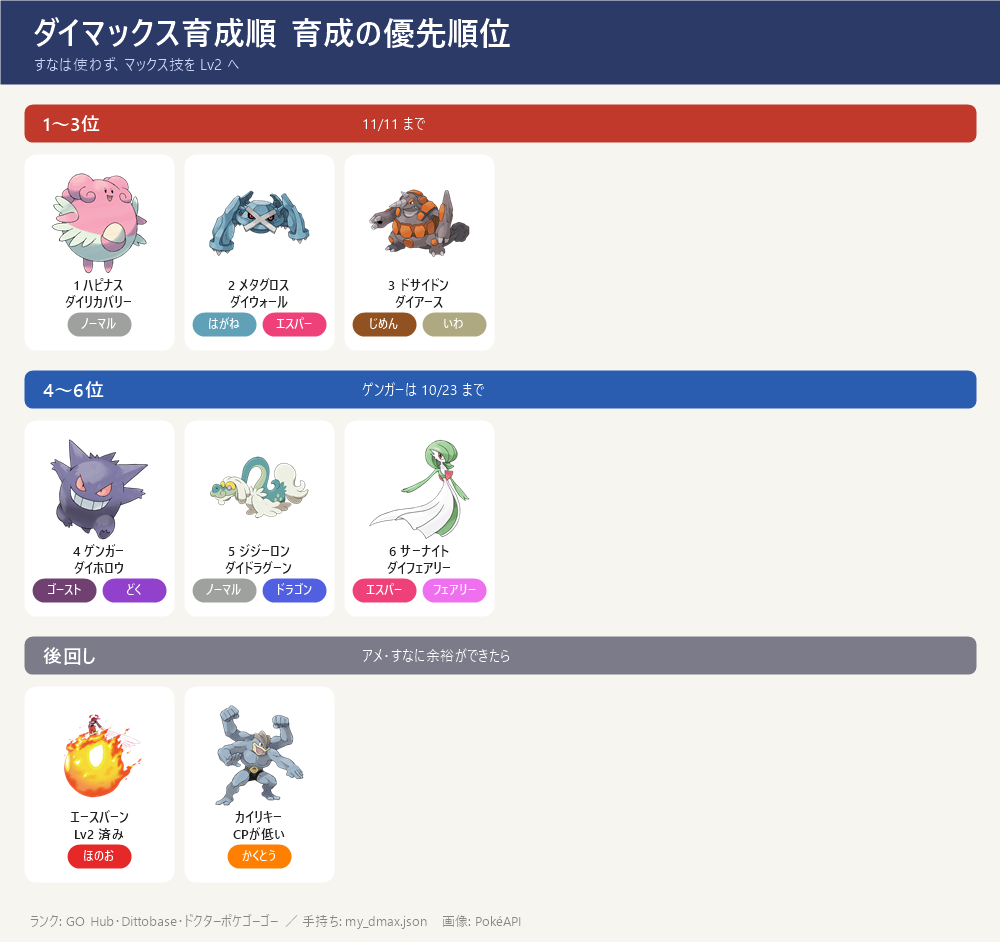
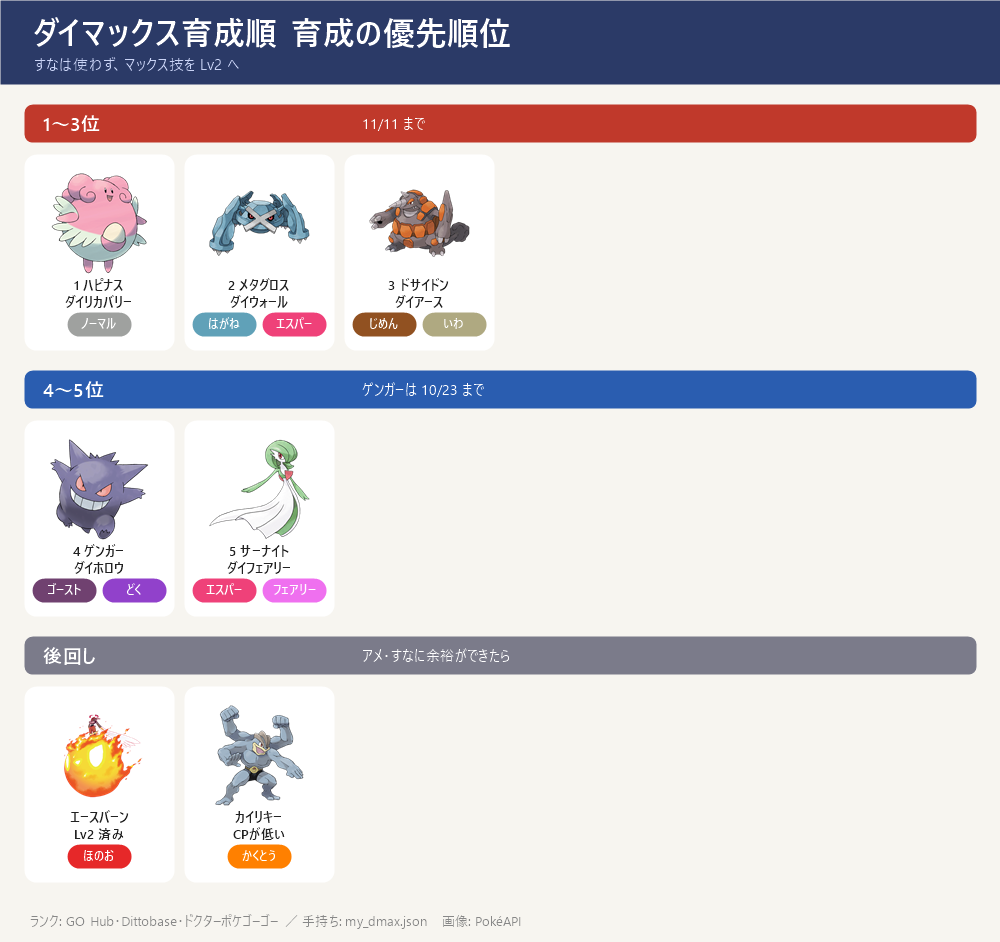
話題ページ dmax-training

Changed region(s): [[0.186, 0.4618, 0.496, 0.6465]]

diff --git a/topics/dmax-training/index.html b/topics/dmax-training/index.html
@@ -6,5 +6,6 @@ header{background:#2B3A67;color:#fff;padding:16px}header h1{margin:0;font-size:2
 main{max-width:1000px;margin:0 auto;padding:0 16px 40px}h2{font-size:19px;border-left:6px solid #2B3A67;padding-left:10px;margin:28px 0 8px}
 ul{padding-left:1.2em;margin:6px 0}li{margin:4px 0}li.s{list-style:none;margin-left:1em;color:var(--fg);font-size:15px}li.s::before{content:'– ';color:var(--muted)}img{width:100%;height:auto;display:block;border-radius:8px;margin:10px 0;background:#fff}
 .sub{color:var(--muted);margin:0}.src{color:var(--muted);font-size:13px;margin-top:30px}nav a{display:inline-block;margin:4px 8px 0 0}
+details{margin:10px 0}summary{cursor:pointer;color:var(--muted)}
 .nest{background:var(--card);border-left:6px solid #2E7D6B;padding:8px 12px;border-radius:6px;margin:12px 0}
-</style></head><body><header><h1>ダイマックス 育成の優先順位（10/17〜）</h1><nav><a href='../../'>← 一覧</a></nav></header><main><ul><li><span style='font-weight:bold;color:#C0392B'>結論：すなより「マックス技のレベル」</span>。マックス技 Lv1→Lv3 で威力 <b>+40%</b>（250→350）、PL30→40 は攻撃 <b>+8%</b> だけ → すな（50万未満）はほぼ使わず、<b>MP とアメ</b>で育てる</li><li><b>いちばん先（11/11 まで）</b>：①ハピナス ダイリカバリー Lv2 ②メタグロス ダイウォールを覚えて Lv2 ③ドサイドンを どろかけ にして ダイアース Lv2</li><li><b>止まりやすいのは MP ではなくアメ</b>：1〜6位を全部 Lv2 にしても MP は約4,000（ふつうの日5日分）。アメが足りない技は飛ばして次へ。Lv3 はアメXL 40〜55個 → <b>当面は全部 Lv2 まで</b></li><li><span style='color:#888888'>11/16 以降のマックスバトルは未発表（10/17 時点）。発表されたらこのページを直す</span></li></ul><h2 style='border-color:#C0392B'>育成の優先順位</h2><a href='pokego_extra0.png'><img src='pokego_extra0.png' alt='育成の優先順位' loading=lazy></a><ul><li><b>1位 ハピナス（CP2677）</b>：ダイリカバリー Lv1→2（600MP・アメ100前後）。<b>6ボスすべて</b>で回復役。回復量 31 → <b>47</b>（4体全員に）。次にダイウォール Lv2</li><li><b>2位 メタグロス（CP3369）</b>：ダイウォールを覚える（400MP・アメ70）→ Lv2（600MP・アメ120）。<b>6ボスすべて</b>で受け役（盾 20 → 40）。どの攻略サイトでも受け役の上位</li><li><b>3位 ドサイドン（CP3005）</b>：通常わざマシンで <b>どろかけ</b> に（覚える通常技は2つだけなので1回で確実）→ ダイアース Lv2（600MP）。ディアルガ・レジスチル・★6 キョダイジュラルドンで<b>弱点</b></li><li><b>4位 ゲンガー（CP2160）</b>：ダイホロウ Lv2（600MP・アメ110）。10/24 ユクシー・エムリット・アグノム、11/13 ラティアス・ラティオスで弱点 → <span style='font-weight:bold;color:#C0392B'>10/23 までに</span></li><li><b>5位 ジジーロン</b>：まず通常技が <b>ドラゴンブレス</b> か確認 → ダイドラグーン Lv2（600MP）。レジドラゴ・ラティアス・ラティオス・パルキアの<b>4ボス</b>で弱点</li><li><b>6位 サーナイト（CP2023）</b>：通常わざマシンで <b>あまえる</b> に → ダイフェアリー Lv2（600MP）。パルキア・レジドラゴ・10/26 ヤミラミ（弱点はフェアリーだけ）</li><li><span style='color:#888888'><b>後回し</b>：エースバーン（キョダイ Lv2 済み。Lv3 はアメXL 45個）／カイリキー（CP1698 で弱い。じめん・かくとう役はドサイドンが先）／インテレオン・フシギバナ（ダイマックス版はどのサイトでも下位）／シャワーズ（パルキアの受けの控え）／ハピナス2体目（余裕ができたら2体目の回復役に）</span></li></ul><h2 style='border-color:#5B4B8A'>これからのマックスバトルと使うポケモン</h2><a href='pokego_extra1.png'><img src='pokego_extra1.png' alt='これからのマックスバトルと使うポケモン' loading=lazy></a><ul><li><b>10/19(月) マックスマンデー：ダイマックス ニューラ</b>（あく・こおり）→ かくとうが<b>4倍</b>：カイリキー。ほのお（エースバーン）・いわ（ドサイドンのうちおとす）・むし（メタグロスのれんぞくぎり）も弱点</li><li><b>10/24(土) 14:00〜17:00 マックスバトルデイ：ユクシー・エムリット・アグノム</b>（エスパー・★5）→ ゴースト（<b>ゲンガー</b>）・むし（<b>メタグロス</b>）。★5 なので4人で</li><li><b>10/26(月) マックスマンデー：ヤミラミ</b>（あく・ゴースト）→ 弱点は<b>フェアリーだけ</b>：サーナイト（あまえる）</li><li><b>11/9〜13 ワイルドウィーク</b>（★5 レジスチル・レジドラゴ・ラティアス・ラティオス）→ <b>11/14 ディアルガ・11/15 パルキア</b>。くわしくはボス別のページ</li><li><b>11/14・15 ★6 キョダイジュラルドン</b>（はがね・ドラゴン）→ じめん・かくとうが弱点：<b>ドサイドン（どろかけ）</b></li><li><span style='color:#888888'>11/16 以降は未発表。去年の年末は 12/14 にキョダイカビゴンのマックスバトルデイ</span></li></ul><h2 style='border-color:#2A5DB0'>MP の計画</h2><ul><li>1日に集められるのは <b>800</b>（5:00 に戻る）、持てる上限は <b>1,500</b>。パック・リサーチ・コードの MP は1日の上限に数えない</li><li><b>育成に要る MP</b>：1〜3位で約2,200、4〜6位で約1,800 → 合計約4,000。ふつうに集めれば 11/10 までに十分足りる</li><li><b>パック（800MP）は 11/14・15 用にとっておく</b>のがいちばん効く：1個 ＝ もう1戦。持てるのは12個まで。<span style='font-weight:bold;color:#C0392B'>開けられるのは 1,500 未満のときだけ</span>（1戦して減ったら開ける。開けると 1,500 を超えてもよい）</li><li>例：週3個 × 4週（10/18〜11/13）＝ 最大12個。半分の6個をとっておけば、11/14・15 が <b>3戦ずつ増える</b></li><li><b>11/12・13 は使わずに 1,500 までためる</b>（いままでの計画どおり）</li><li><span style='color:#888888'>GOパス デラックス「Into the Wild」（11/9〜13）をランク2にすると、マックス技の MP が 3/4 に（買う場合だけ）</span></li></ul><h2 style='border-color:#3C8D5A'>必要な量とすなの使い方</h2><ul><li><b>覚える（Lv1）</b>：400MP ＋ アメ50〜70（伝説80）／<b>Lv1→2</b>：600MP ＋ アメ100〜120（伝説130）／<b>Lv2→3</b>：800MP ＋ <b>アメXL</b> 40〜50（伝説55）</li><li>アメの量はポケモンごとに違う（ゴース・ワンリキーは 60/110/45、ダンバルは 70/120/50）。<b>画面で確認してから</b></li><li><b>効果</b>：ダイ攻撃 250/300/350、キョダイ技 350/400/450、ダイウォール 盾 20/40/60、ダイリカバリー 最大HPの 8/12/16%。Lv4 は買えない（ムゲンダイナの特別な効果中だけ）</li><li><b>すな</b>：PL30→40 で15万、PL40→50 で25万（アメXL 296個）→ 50万未満なら上げられるのは1体だけ</li><li><b>すなを使うなら ドサイドン</b>（今は PL31 前後と推定 → PL40 で約13万すな、攻撃 約+11%）。<span style='font-weight:bold;color:#C0392B'>カイリキー（CP1698）にすなを入れるのはやめる</span>（じめん・かくとう役はドサイドンで足りる）。ハピナス（CP2677）はもう PL40 近いので不要</li><li><b>10/22(木) 18:00〜19:00 ネマシュのスポットライトアワー（すな2倍）</b>でためる</li></ul><p class=src>出典: マックス技の量: ポケらく post94863・Sportskeeda ／ MP: Dittobase ／ 予定: Leek Duck・Dittobase・ポケモンGO公式 into-the-wild-2026 ／ ランク: GO Hub（攻撃・受け・回復）・Dittobase・ドクターポケゴーゴー ／ すな: GO Hub ／ ボス別の計算: calc.json・ww_calc.json ／ 手持ち: my_dmax.json<br>画像: PokéAPI ／ 更新 2026-10-17</p></main></body></html>
+</style></head><body><header><h1>ダイマックス 育成の優先順位（10/17〜）</h1><nav><a href='../../'>← 一覧</a></nav></header><main><ul><li><span style='font-weight:bold;color:#C0392B'>結論：すなより「マックス技のレベル」</span>。マックス技 Lv1→Lv3 で威力 <b>+40%</b>（250→350）、PL30→40 は攻撃 <b>+8%</b> だけ → すな（50万未満）はほぼ使わず、<b>MP とアメ</b>で育てる</li><li><b>いちばん先（11/11 まで）</b>：①ハピナス ダイリカバリー Lv2 ②メタグロス ダイウォールを覚えて Lv2 ③ドサイドン ダイアース Lv2（どろかけは替え済み）</li><li><b>止まりやすいのは MP ではなくアメ</b>：1〜5位を全部 Lv2 にしても MP は約3,400（ふつうの日5日分）。アメが足りない技は飛ばして次へ。Lv3 はアメXL 40〜55個 → <b>当面は全部 Lv2 まで</b></li><li><span style='color:#888888'>11/16 以降のマックスバトルは未発表（10/17 時点）。発表されたらこのページを直す</span></li></ul><h2 style='border-color:#C0392B'>育成の優先順位</h2><a href='pokego_extra0.png'><img src='pokego_extra0.png' alt='育成の優先順位' loading=lazy></a><ul><li><b>1位 ハピナス（CP2677）</b>：ダイリカバリー Lv1→2（600MP・アメ100前後）。<b>6ボスすべて</b>で回復役。回復量 31 → <b>47</b>（4体全員に）。次にダイウォール Lv2</li><li><b>2位 メタグロス（CP3369）</b>：ダイウォールを覚える（400MP・アメ70）→ Lv2（600MP・アメ120）。<b>6ボスすべて</b>で受け役（盾 20 → 40）。どの攻略サイトでも受け役の上位</li><li><b>3位 ドサイドン（CP3005）</b>：<b>どろかけ</b> 替え済み（10/18）→ ダイアース Lv2（600MP）。ディアルガ・レジスチル・★6 キョダイジュラルドンで<b>弱点</b></li><li><b>4位 ゲンガー（CP2160）</b>：ダイホロウ Lv2（600MP・アメ110）。10/24 ユクシー・エムリット・アグノム、11/13 ラティアス・ラティオスで弱点 → <span style='font-weight:bold;color:#C0392B'>10/23 までに</span></li><li><b>5位 サーナイト（CP2023）</b>：<b>あまえる</b> 替え済み（10/18）→ ダイフェアリー Lv2（600MP）。パルキア・レジドラゴ・10/26 ヤミラミ（弱点はフェアリーだけ）</li><li><span style='color:#888888'><b>後回し</b>：エースバーン（キョダイ Lv2 済み。Lv3 はアメXL 45個）／カイリキー（CP1698 で弱い。じめん・かくとう役はドサイドンが先）／インテレオン・フシギバナ（ダイマックス版はどのサイトでも下位）／シャワーズ（パルキアの受けの控え）／ハピナス2体目（余裕ができたら2体目の回復役に）</span></li></ul><h2 style='border-color:#5B4B8A'>これからのマックスバトルと使うポケモン</h2><a href='pokego_extra1.png'><img src='pokego_extra1.png' alt='これからのマックスバトルと使うポケモン' loading=lazy></a><ul><li><b>10/19(月) マックスマンデー：ダイマックス ニューラ</b>（あく・こおり）→ かくとうが<b>4倍</b>：カイリキー。ほのお（エースバーン）・むし（メタグロスのれんぞくぎり）も弱点</li><li><b>10/24(土) 14:00〜17:00 マックスバトルデイ：ユクシー・エムリット・アグノム</b>（エスパー・★5）→ ゴースト（<b>ゲンガー</b>）・むし（<b>メタグロス</b>）。★5 なので4人で</li><li><b>10/26(月) マックスマンデー：ヤミラミ</b>（あく・ゴースト）→ 弱点は<b>フェアリーだけ</b>：サーナイト（あまえる）</li><li><b>11/9〜13 ワイルドウィーク</b>（★5 レジスチル・レジドラゴ・ラティアス・ラティオス）→ <b>11/14 ディアルガ・11/15 パルキア</b>。くわしくはボス別のページ</li><li><b>11/14・15 ★6 キョダイジュラルドン</b>（はがね・ドラゴン）→ じめん・かくとうが弱点：<b>ドサイドン（どろかけ）</b></li><li><span style='color:#888888'>11/16 以降は未発表。去年の年末は 12/14 にキョダイカビゴンのマックスバトルデイ</span></li></ul><h2 style='border-color:#2A5DB0'>MP の計画</h2><ul><li>1日に集められるのは <b>800</b>（5:00 に戻る）、持てる上限は <b>1,500</b>。パック・リサーチ・コードの MP は1日の上限に数えない</li><li><b>育成に要る MP</b>：1〜3位で約2,200、4・5位で約1,200 → 合計約3,400。ふつうに集めれば 11/10 までに十分足りる</li><li><b>パック（800MP）は 11/14・15 用にとっておく</b>のがいちばん効く：1個 ＝ もう1戦。持てるのは12個まで。<span style='font-weight:bold;color:#C0392B'>開けられるのは 1,500 未満のときだけ</span>（1戦して減ったら開ける。開けると 1,500 を超えてもよい）</li><li>例：週3個 × 4週（10/18〜11/13）＝ 最大12個。半分の6個をとっておけば、11/14・15 が <b>3戦ずつ増える</b></li><li><b>11/12・13 は使わずに 1,500 までためる</b>（いままでの計画どおり）</li><li><span style='color:#888888'>GOパス デラックス「Into the Wild」（11/9〜13）をランク2にすると、マックス技の MP が 3/4 に（買う場合だけ）</span></li></ul><h2 style='border-color:#3C8D5A'>必要な量とすなの使い方</h2><ul><li><b>覚える（Lv1）</b>：400MP ＋ アメ50〜70（伝説80）／<b>Lv1→2</b>：600MP ＋ アメ100〜120（伝説130）／<b>Lv2→3</b>：800MP ＋ <b>アメXL</b> 40〜50（伝説55）</li><li>アメの量はポケモンごとに違う（ゴース・ワンリキーは 60/110/45、ダンバルは 70/120/50）。<b>画面で確認してから</b></li><li><b>効果</b>：ダイ攻撃 250/300/350、キョダイ技 350/400/450、ダイウォール 盾 20/40/60、ダイリカバリー 最大HPの 8/12/16%。Lv4 は買えない（ムゲンダイナの特別な効果中だけ）</li><li><b>すな</b>：PL30→40 で15万、PL40→50 で25万（アメXL 296個）→ 50万未満なら上げられるのは1体だけ</li><li><b>すなを使うなら ドサイドン</b>（今は PL31 前後と推定 → PL40 で約13万すな、攻撃 約+11%）。<span style='font-weight:bold;color:#C0392B'>カイリキー（CP1698）にすなを入れるのはやめる</span>（じめん・かくとう役はドサイドンで足りる）。ハピナス（CP2677）はもう PL40 近いので不要</li><li><b>10/22(木) 18:00〜19:00 ネマシュのスポットライトアワー（すな2倍）</b>でためる</li></ul><p class=src>出典: マックス技の量: ポケらく post94863・Sportskeeda ／ MP: Dittobase ／ 予定: Leek Duck・Dittobase・ポケモンGO公式 into-the-wild-2026 ／ ランク: GO Hub（攻撃・受け・回復）・Dittobase・ドクターポケゴーゴー ／ すな: GO Hub ／ ボス別の計算: calc.json・ww_calc.json ／ 手持ち: my_dmax.json<br>画像: PokéAPI ／ 更新 2026-10-18</p></main></body></html>
